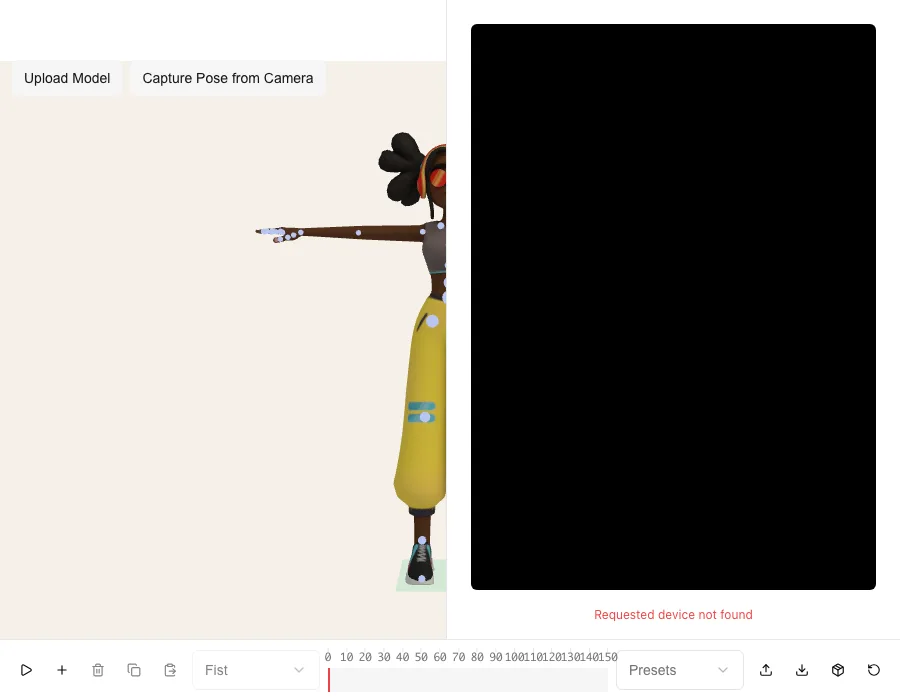
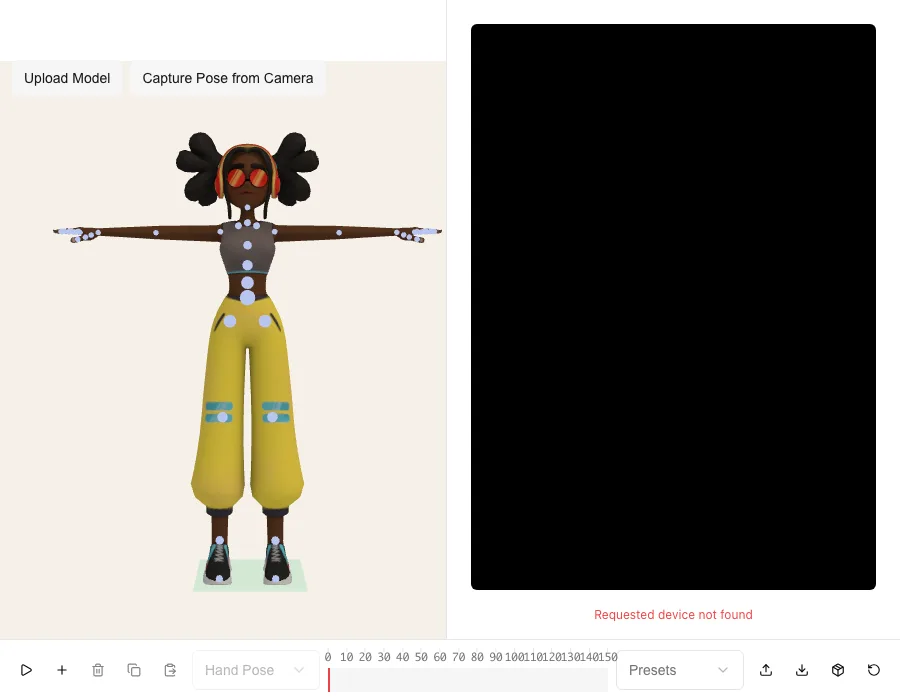
fix: center the model in the visible half when the camera panel is open
The model stayed centered on the full canvas width, so with the
camera/photo panel covering the right half it sat crowded against the
divider instead of centered in what is actually visible.

Uses camera.setViewOffset to shift which part of a wider virtual
frame the same render shows, the standard technique for tiled or
multi-window rendering, rather than resizing the canvas itself. The
canvas stays exactly the size it always was, so the shared package's
window-based resize handling never needs to know the panel exists.
Recomputed on open/close, on window resize, and on a camera type
switch.

Changed region(s): [[0.0622, 0.18, 0.4978, 0.87], [0.2178, 0.93, 0.3111, 0.96]]

diff --git a/src/views/Tools/RigAnimator/RigAnimator.vue b/src/views/Tools/RigAnimator/RigAnimator.vue
@@ -21,7 +21,8 @@ import {
   RIG_ANIMATOR_SETUP_CONFIG,
   DEFAULT_FPS,
   DEFAULT_MODEL_PATH,
-  MODEL_FILE_ACCEPT
+  MODEL_FILE_ACCEPT,
+  CAMERA_PANEL_WIDTH_VW
 } from './config'
 import { buildRigAnimatorSchema } from './panelSchema'
 import { useRigAnimator } from './useRigAnimator'
@@ -122,6 +123,33 @@ const onWindowPointerUp = (): void => {
   window.removeEventListener('pointerup', onWindowPointerUp)
 }
 
+/**
+ * Shifts the camera's view offset so the model appears centered in the visible half of the
+ * canvas while the camera/photo panel covers the other half, rather than sitting off-center
+ * against the divider. The canvas itself never resizes for this: `setViewOffset` shifts which
+ * part of a wider virtual frame the same render shows, so the shared package's window-based
+ * resize handling elsewhere never needs to know about the docked panel at all.
+ */
+const updateCameraCentering = (): void => {
+  const activeCamera = cameraReference
+  if (!canvas.value) return
+  if (
+    !(activeCamera instanceof THREE.PerspectiveCamera) &&
+    !(activeCamera instanceof THREE.OrthographicCamera)
+  ) {
+    return
+  }
+  const width = canvas.value.clientWidth
+  const height = canvas.value.clientHeight
+  if (showCameraCapture.value) {
+    const visibleWidth = width * (1 - CAMERA_PANEL_WIDTH_VW / 100)
+    activeCamera.setViewOffset(width * 2, height, width - visibleWidth / 2, 0, width, height)
+  } else {
+    activeCamera.clearViewOffset()
+  }
+  activeCamera.updateProjectionMatrix()
+}
+
 /** Rebuilds the panel schema from the rig's current bones and auto-rig state. */
 const refreshSchema = (): void => {
   updateViewSchema(
@@ -184,6 +212,7 @@ watch(
     if (!rig.isPlaying.value) rig.scrubToFrame(frame)
   }
 )
+watch(showCameraCapture, () => updateCameraCentering())
 
 const init = async (): Promise<void> => {
   if (!canvas.value) return
@@ -215,6 +244,7 @@ const init = async (): Promise<void> => {
       orbit,
       setCamera: (newCamera) => {
         cameraReference = newCamera
+        updateCameraCentering()
         return setActiveCamera(newCamera)
       }
     }
@@ -242,10 +272,12 @@ onMounted(async () => {
   )
   await init()
   canvas.value?.addEventListener('pointerdown', onCanvasPointerDown)
+  window.addEventListener('resize', updateCameraCentering)
 })
 
 onUnmounted(() => {
   canvas.value?.removeEventListener('pointerdown', onCanvasPointerDown)
+  window.removeEventListener('resize', updateCameraCentering)
   onWindowPointerUp()
   unregisterViewConfig(routeName)
   clearViewPanels()

diff --git a/src/views/Tools/RigAnimator/CameraPoseCapture.vue b/src/views/Tools/RigAnimator/CameraPoseCapture.vue
@@ -5,6 +5,7 @@ import Button from '@/components/ui/button/Button.vue'
 import { useCameraPoseCapture } from './useCameraPoseCapture'
 import { useCameraPhotoPose } from './useCameraPhotoPose'
 import { CAMERA_LANDMARK_VISIBILITY_THRESHOLD, type CameraLandmark } from './cameraPoseMapping'
+import { CAMERA_PANEL_WIDTH_VW } from './config'
 
 const emit = defineEmits<{
   apply: [landmarks: CameraLandmark[]]
@@ -103,7 +104,7 @@ onUnmounted(() => camera.stop())
 </script>
 
 <template>
-  <div class="camera-pose-capture">
+  <div class="camera-pose-capture" :style="{ width: `${CAMERA_PANEL_WIDTH_VW}vw` }">
     <div
       class="camera-pose-capture__preview"
       :class="{ 'camera-pose-capture__preview--mirrored': mode === 'camera' }"
@@ -173,7 +174,6 @@ onUnmounted(() => camera.stop())
   right: 0;
   bottom: 0;
   z-index: var(--z-overlay);
-  width: 45vw;
   display: flex;
   flex-direction: column;
   align-items: center;

diff --git a/src/views/Tools/RigAnimator/config.ts b/src/views/Tools/RigAnimator/config.ts
@@ -59,3 +59,7 @@ export const MEDIAPIPE_WASM_BASE_PATH =
   'https://cdn.jsdelivr.net/npm/@mediapipe/tasks-vision@1.0.1/wasm'
 export const MEDIAPIPE_POSE_MODEL_URL =
   'https://storage.googleapis.com/mediapipe-models/pose_landmarker/pose_landmarker_lite/float16/1/pose_landmarker_lite.task'
+
+/** Width of the docked camera/photo panel, as a fraction of the viewport, in both its own
+ * layout and the 3D camera's re-centering onto the remaining visible half. */
+export const CAMERA_PANEL_WIDTH_VW = 45

diff --git a/documentation/docs/guides/rig-animator.md b/documentation/docs/guides/rig-animator.md
@@ -211,6 +211,11 @@ about: one it isn't, typically a body part out of frame, still gets a guessed po
 internally, and drawing that would show a confident-looking line to something that isn't really
 there.
 
+The model re-centers within the now-narrower visible half rather than sitting off-center against
+the panel's edge, without the 3D canvas itself ever resizing: opening the panel shifts the
+camera's own view offset, the same technique used for tiled or multi-window rendering, so the
+model appears centered in whatever is actually visible. Closing the panel clears it.
+
 ![The camera panel docked to the right of the still-interactive 3D view, side by side for a live comparison](/img/animation/rig-camera-split-screen.webp)
 
 Every detected frame applies straight to the rig, live, the moment it arrives: there is no
